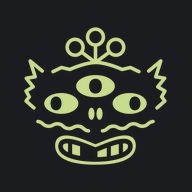
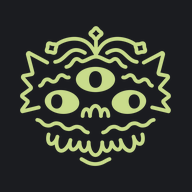
Garbo: update to the owner's refined drawing
New mask, icons and DMD bitmap (diamond antennae, wavy brows, m-shaped
nose, teeth and smile). Asset URLs bumped to v=3 so browsers refetch.

Claude-Session: https://claude.ai/code/session_01UsLQRnPeR31dTeQKGYy7NB

Changed region(s): [[0.0938, 0.125, 0.9062, 0.875]]

diff --git a/index.html b/index.html
@@ -5,10 +5,10 @@
 <meta name="viewport" content="width=device-width, initial-scale=1, viewport-fit=cover">
 <title>Garbo’s Guide to ABQ Pinball</title>
 <meta name="description" content="Garbo’s Guide to ABQ Pinball: strategy, community tips and tournament notes for the machines at Albuquerque venues.">
-<link rel="icon" href="icons/favicon-32.png?v=2" sizes="32x32" type="image/png">
-<link rel="icon" href="icons/favicon-64.png?v=2" sizes="64x64" type="image/png">
-<link rel="apple-touch-icon" href="icons/apple-touch-icon.png?v=2">
-<link rel="manifest" href="icons/site.webmanifest?v=2">
+<link rel="icon" href="icons/favicon-32.png?v=3" sizes="32x32" type="image/png">
+<link rel="icon" href="icons/favicon-64.png?v=3" sizes="64x64" type="image/png">
+<link rel="apple-touch-icon" href="icons/apple-touch-icon.png?v=3">
+<link rel="manifest" href="icons/site.webmanifest?v=3">
 <meta name="theme-color" content="#1b1c20">
 <meta name="apple-mobile-web-app-title" content="Garbo’s Guide">
 <link rel="preconnect" href="https://fonts.googleapis.com">
@@ -385,7 +385,7 @@ h1 .fx > .fx-t { color: var(--lime); -webkit-text-stroke: 0; }
 @media (prefers-reduced-motion: reduce) { .dmd-frame.abduct { animation: none; } }
 /* Garbo's signature in the footer: the owner's drawing, recoloured through a mask */
 .garbo-sig { display: flex; width: fit-content; align-items: center; gap: 16px; background: var(--bg); padding: 6px 10px 6px 0; }
-.garbo-art { flex: none; width: 76px; aspect-ratio: 1287 / 1240; background: currentColor; -webkit-mask: url("art/garbo.png?v=2") center / contain no-repeat; mask: url("art/garbo.png?v=2") center / contain no-repeat; }
+.garbo-art { flex: none; width: 76px; aspect-ratio: 1646 / 1528; background: currentColor; -webkit-mask: url("art/garbo.png?v=3") center / contain no-repeat; mask: url("art/garbo.png?v=3") center / contain no-repeat; }
 /* Garbo says: his drawing on the left, the line in a speech bubble pointing at him */
 .says { display: flex; align-items: center; gap: 44px; margin: 0 0 34px; }
 .says > .garbo-art { width: clamp(76px, 9vw, 112px); color: var(--lime); flex: none; }
@@ -3017,7 +3017,7 @@ const F = {
   "\uE00A":"00100 01010 00100 01110 10101 00100 01010", "\uE00B":"11011 10001 00100 01110 00100 10001 11011"
 };
 /* Garbo, from the owner's drawing, redrawn dot by dot (56 x 30) with an open-eye and a wink frame. */
-const GARBO = {"open":["0000000000000000001111000000000000000000","0000000000000000010000100000000000000000","0000000000011000010000100001100000000000","0000000000100100001111000010010000000000","0000000000100100000110000010010000000000","0000000000011010000110000101100000000000","0001000000000001100110011000000000001000","0010000000000111111111111110000000000100","0100000011111000000000000001111100000010","0010001100000000111111110000000011000100","0001000000000001111001111000000000001000","0010000000000001111001111000000000000100","0100000000000000111111110000000000000010","0010001111111100000000000011111111000100","0001011111001110000000000111001111101000","0010011111001110000000000111001111100100","0100011111001110000000000111001111100010","0000001111111100001001000011111111000000","0000000000000000001001000000000000000000","0001100011000110000000000110001100011000","0000011100111001110000111001110011100000","0000000000000000000000000000000000000000","0000000000111110000000000111110000000000","0000000001000001110000111000001000000000","0000000001000000001111000000001000000000","0000000001001101100000011011001000000000","0000000001001101100000011011001000000000","0000000001000000000000000000001000000000","0000000000100000000000000000010000000000","0000000000011111111111111111100000000000"],"wink":["0000000000000000001111000000000000000000","0000000000000000010000100000000000000000","0000000000011000010000100001100000000000","0000000000100100001111000010010000000000","0000000000100100000110000010010000000000","0000000000011010000110000101100000000000","0001000000000001100110011000000000001000","0010000000000111111111111110000000000100","0100000011111000000000000001111100000010","0010001100000000111111110000000011000100","0001000000000001111001111000000000001000","0010000000000001111001111000000000000100","0100000000000000111111110000000000000010","0010001111111100000000000000000000000100","0001011111001110000000000000000000001000","0010011111001110000000000100000000100100","0100011111001110000000000011111111000010","0000001111111100001001000000000000000000","0000000000000000001001000000000000000000","0001100011000110000000000110001100011000","0000011100111001110000111001110011100000","0000000000000000000000000000000000000000","0000000000111110000000000111110000000000","0000000001000001110000111000001000000000","0000000001000000001111000000001000000000","0000000001001101100000011011001000000000","0000000001001101100000011011001000000000","0000000001000000000000000000001000000000","0000000000100000000000000000010000000000","0000000000011111111111111111100000000000"]};
+const GARBO = {"open":["0000000000000000000110000000000000000000","0000000000000000001001000000000000000000","0000000000001111001001001111000000000000","0000000001010000110110110000101000000000","0000000010100000001111000000010100000000","0010000001000000000110000000001000000100","0001000110000111000000001110000110001000","0000100001111000111111110001111000010000","0001000000000000111111110000000000001000","0010000011001101111001111011001100000100","0100001100110001111001111000110011000010","1000000000000001111001111000000000000001","0100000000000000111111110000000000000010","0010000111111100000000000011111110000100","0001001111001110000000000111001111001000","0010001111001110000000000111001111000100","0100001111001110011001100111001111000010","1000000111111100100110010011111110000001","0100000000000000100110010000000000000010","0001100011000110000000000110001100011000","0000011100111001110000111001110011100000","0000000000000000000000000000000000000000","0000000001000100010000100010001000000000","0000000001000100010000100010001000000000","0000000001000100010000100010001000000000","0000000000111011101111011101110000000000","0000000000000000000000000000000000000000","0000000000000011000000001100000000000000","0000000000000000111111110000000000000000","0000000000000000000000000000000000000000"],"wink":["0000000000000000000110000000000000000000","0000000000000000001001000000000000000000","0000000000001111001001001111000000000000","0000000001010000110110110000101000000000","0000000010100000001111000000010100000000","0010000001000000000110000000001000000100","0001000110000111000000001110000110001000","0000100001111000111111110001111000010000","0001000000000000111111110000000000001000","0010000011001101111001111011001100000100","0100001100110001111001111000110011000010","1000000000000001111001111000000000000001","0100000000000000111111110000000000000010","0010000111111100000000000000000000000100","0001001111001110000000000000000000001000","0010001111001110000000000010000001000100","0100001111001110011001100001111110000010","1000000111111100100110010000000000000001","0100000000000000100110010000000000000010","0001100011000110000000000110001100011000","0000011100111001110000111001110011100000","0000000000000000000000000000000000000000","0000000001000100010000100010001000000000","0000000001000100010000100010001000000000","0000000001000100010000100010001000000000","0000000000111011101111011101110000000000","0000000000000000000000000000000000000000","0000000000000011000000001100000000000000","0000000000000000111111110000000000000000","0000000000000000000000000000000000000000"]};
 const ALIEN = Array.from({ length: 12 }, (_, i) => String.fromCharCode(0xE000 + i));
 const glyph = ch => (F[ch] || F[" "]).split(" ");
 /* Width in dots of text drawn at scale s with a gap of g dots between letters. */

diff --git a/CLAUDE.md b/CLAUDE.md
@@ -3,7 +3,7 @@
 Read this first. It replaces the original conversation, which isn't available to you.
 
 ## What this is
-**Renamed 2026-11-12: the site is now "Garbo's Guide to ABQ Pinball"** (repo and URL still say PinPlan). Garbo is the owner's alien character; the theme is a field guide he left behind in Albuquerque (no Roswell references: the owner didn't want the app to seem based there). Night-sky look, Instrument Serif titles, dot-matrix accents. Lime is reserved for Garbo, the onboard display and tappable things. `garbo-says.md` holds the owner's own one-thing line per game (overrides `thesis`); `art/garbo.png` is his drawing used as a mask (replaced 2026-11-12 with the owner's new three-eyed sketch; the earlier drawing must not come back). The DMD version is the hand-drawn 40×30 `GARBO` bitmap in `index.html`; he winks his left eye (the viewer's right).
+**Renamed 2026-11-12: the site is now "Garbo's Guide to ABQ Pinball"** (repo and URL still say PinPlan). Garbo is the owner's alien character; the theme is a field guide he left behind in Albuquerque (no Roswell references: the owner didn't want the app to seem based there). Night-sky look, Instrument Serif titles, dot-matrix accents. Lime is reserved for Garbo, the onboard display and tappable things. `garbo-says.md` holds the owner's own one-thing line per game (overrides `thesis`); `art/garbo.png` is his drawing used as a mask (three-eyed version, refined by the owner 2026-11-13; the pre-2026-11-12 drawing must not come back). The DMD version is the hand-drawn 40×30 `GARBO` bitmap in `index.html`; he winks his left eye (the viewer's right).
 PinPlan is a free tournament strategy guide for pinball venues, starting in Albuquerque, NM.
 - Live site: https://abeytaadam.github.io/PinPlan/ (GitHub Pages, served from `main`, root folder)
 - Players reach it from a QR code posted at the venue.
@@ -20,7 +20,7 @@ Each machine page leads with **tournament** strategy, not general play:
 6. Rules in brief, then sources (every page links its sources)
 
 ## Files
-- `icons/`: Garbo's face in lime on night (#1b1c20), rendered from the owner's drawing (2026-11-12). `favicon-32.png` and `favicon-64.png` use a face-only crop (three eyes, nose, whiskers, grin) so it reads at tab size; `apple-touch-icon.png` (180), `icon-192.png` and `icon-512.png` show the whole drawing. `favicon.svg` is the old "pp" mark, no longer linked. `site.webmanifest` names the app for "Add to Home Screen".
+- `icons/`: Garbo's face in lime on night (#1b1c20), rendered from the owner's drawing (2026-11-12). `favicon-32.png` and `favicon-64.png` use a face crop: `favicon-32.png` shows only the three eyes, nose and teeth; `favicon-64.png` adds the brows and whiskers so it reads at tab size; `apple-touch-icon.png` (180), `icon-192.png` and `icon-512.png` show the whole drawing. `favicon.svg` is the old "pp" mark, no longer linked. `site.webmanifest` names the app for "Add to Home Screen".
 - `index.html`: the whole site in one file. The curated plans are the `MACHINES` array in the script near the bottom. Each entry has: id, code (DMD-style 2–4 letters), name, sort, mfr, year, variant, group (stern/chicago/classic/spooky/other), opdb (OPDB group id, e.g. G4do5), thesis, plan[], avoid[], venue {notes, copy, tied, scores}, tips [[category, votes, text]], tourney [] (tournament-only notes), rules, sources [[label, url]].
   - `venue.tied` holds [keyword, line] pairs. Each line only shows while a live Pinball Map condition note contains that keyword.
 - `index.html` also loads `lineup.json` if it exists. Live machines are matched to plans by OPDB group id, then by name. New machines get a basic "No plan yet" page. Curated machines that leave the floor stay reachable by link.
